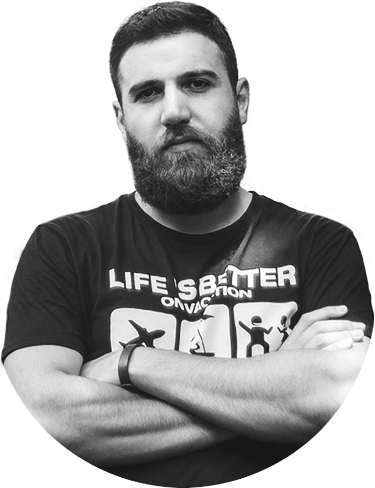
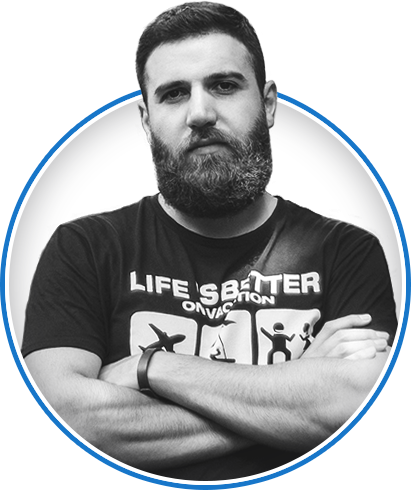
Profile Component
Add: Info about me, profile photo, and relevant elements.
Add: Contact information.
Add: Responsive design

Changed region(s): [[0.0, 0.0, 1.0, 1.0]]

diff --git a/src/components/Profile/Profile.scss b/src/components/Profile/Profile.scss
@@ -1,17 +1,163 @@
-.profile{
+.profile {
   width: 100%;
   display: flex;
   justify-content: center;
-  padding:  130px 0;
+  padding: 130px 0;
 
-  .profile-main{
+  .profile-main {
     display: flex;
     align-items: center;
     width: 1200px;
     justify-content: space-between;
-    border: 1px solid #fff;
-    height: 500px;
+    gap: 30px;
     margin: 0 25px;
+    flex-direction: row;
+
+    .profile-inner-left {
+      max-width: 750px;
+      padding-right: 20px;
+      height: 100%;
+      display: flex;
+      flex-direction: column;
+      position: relative;
+
+      h1 {
+        padding-top: 90px;
+        font-size: clamp(2.2rem, 4.4vw, 3.4rem);
+
+        .profile-blue {
+          color: #2c9bff;
+        }
+      }
+
+      .profile-text {
+        margin: 20px 0 20px;
+        max-width: 700px;
+
+      }
+
+      .buttons {
+        display: flex;
+        position: absolute;
+        bottom: 8px;
+        gap: 15px;
+      }
+
+      button {
+        height: 55px;
+        padding: 0 22px;
+        border-radius: 15px;
+        font-size: 18px;
+        cursor: pointer;
+        border: none;
+        background-color: #0f77d2;
+        color: #eee;
+        transition: 0.4s ease-out;
+        &:hover {
+          background-color: #005ea2;
+        }
+      }
+
+      .profile-button1 {
+        color: #eee;
+      }
+
+      .profile-button2 img {
+        width: 25px;
+        margin-bottom: -5px;
+        margin-right: 5px;
+      }
+
+      .profile-element {
+        margin-top: 20px;
+        max-width: 100%;
+      }
+    }
+
+    .profile-inner-right {
+      display: flex;
+      height: 100%;
+      flex-direction: column;
+      gap: 10px;
+
+      .profile-image-frame img {
+        width: 100%;
+      }
+
+      .contact-info {
+        height: 40px;
+        display: flex;
+        gap: 15px;
+        padding: 20px 0;
+        justify-content: center;
+
+        .contact-item {
+          height: 50px;
+          width: 50px;
+          border-radius: 50px;
+          background-color: #eee;
+          outline: 1px solid #a6a6a6;
+          display: flex;
+          justify-content: center;
+          align-items: center;
+          transition: 0.1s ease-out;
+          cursor: pointer;
+
+          img {
+            height: 23px;
+            width: 23px;
+          }
+
+          &:hover {
+            outline: 4px solid #0F77D2FF;
+          }
+
+        }
+      }
+    }
   }
 }
 
+// Profile media
+@media only screen and (max-width: 800px) {
+  .profile .profile-main {
+    flex-direction: column;
+
+    .buttons {
+      position: relative !important;
+      justify-content: center;
+      flex-wrap: wrap;
+      align-items: center
+    }
+
+    .profile-inner-left {
+      padding: 0;
+      text-align: center;
+
+      h1 {
+        padding: 0;
+      }
+    }
+  }
+}
+
+// Profile Media design element hide
+@media only screen and (max-width: 1024px) {
+  .profile-element {
+    display: none;
+  }
+
+  .contact-item {
+    cursor: default !important;
+    &:hover {
+      outline: 1px solid #a6a6a6 !important;
+    }
+  }
+
+  .buttons button {
+    cursor: default !important;
+    &:hover {
+      background-color:#0f77d2 !important;
+    }
+  }
+}

diff --git a/src/components/Profile/Profile.jsx b/src/components/Profile/Profile.jsx
@@ -1,20 +1,66 @@
 import "./Profile.scss"
+import profile_image from '../../assets/images/profile_img.png'
+import el_1 from '../../assets/images/el_1.png'
+import download_arrow from '../../assets/images/download_arrow.svg'
+import linkedin_img from '../../assets/images/linkedin_img.svg'
+import mail_img from '../../assets/images/mail_img.svg'
+import github_img from '../../assets/images/github_img.svg'
+import phone_img from '../../assets/images/phone_img.svg'
 
 
 function Profile() {
     return (
+        <div className="profile">
+            <div className="profile-main">
+                <div className="profile-inner-left">
 
-        <>
-            <div className="profile">
+                    <h1>
+                        <p>გამარჯობა</p> მე ვარ გოგა რამაზაშვილი <p className="profile-blue ">ფრონტენდ დეველოპერი</p>
+                    </h1>
 
-                <div className="profile-main">
-                    <h1>start</h1>
+                    <p className="profile-text">
+                        Lorem ipsum dolor sit amet, consequatur dolorem ea earum eos error eveniet illum ipsa
+                        consectetur adipisicing elit. Asperiores aspernatur, blanditiis
+                        consequatur dolorem ea earum eos error eveniet illum ipsa ipsam laboriosam maiores nam.
+                    </p>
+
+                    <div className="buttons">
+                        <button className="profile-button1">
+                            დამიკავშირდი
+                        </button>
+                        <button className="profile-button2">
+                            <img src={download_arrow} alt={'Download'}/>
+                            CV გადმოწერა
+                        </button>
+                    </div>
+
+                    <img className="profile-element" src={el_1} alt={''}/>
+
                 </div>
+                <div className="profile-inner-right">
 
+                    <div className="profile-image-frame">
+                        <img src={profile_image} alt={'ME'}/>
+                    </div>
+
+                    <div className="contact-info">
+                        <div className="contact-item">
+                            <img src={linkedin_img} alt={'Linkedin'}/>
+                        </div>
+                        <div className="contact-item">
+                            <img src={mail_img} alt={'Mail'}/>
+                        </div>
+                        <div className="contact-item">
+                            <img src={github_img} alt={'Github'}/>
+                        </div>
+                        <div className="contact-item">
+                            <img src={phone_img} alt={'Phone'}/>
+                        </div>
+                    </div>
+
+                </div>
             </div>
-
-
-        </>
+        </div>
     );
 }
 
